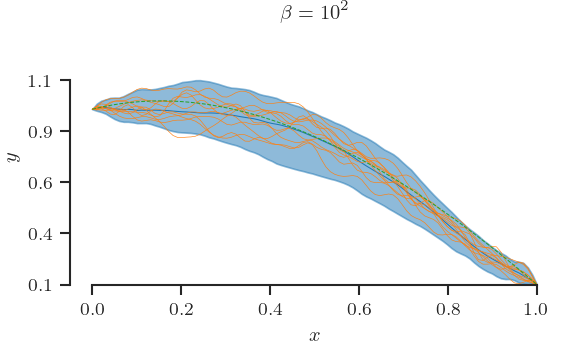
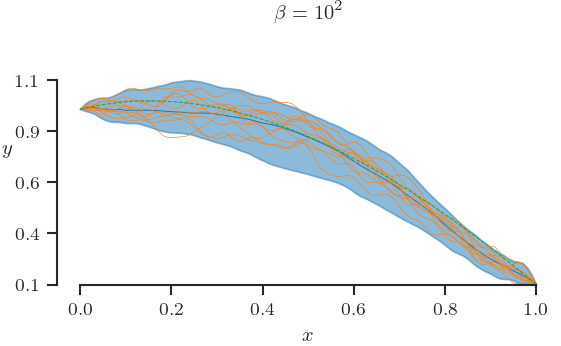
Example 1 typos.

diff --git a/examples/example01_make_plots.py b/examples/example01_make_plots.py
@@ -55,7 +55,7 @@ for b in betas:
     l = f"10^{tmp[1][2:]}"
     ax.set_title(f"$\\beta={l}$")
     if b == 100 or b == 10000:
-        ax.set_ylabel("$y$")
+        ax.set_ylabel("$y$", rotation="horizontal")
     if b == 100000:
         plt.legend(loc="best", frameon=False)
     sns.despine(trim=True)

diff --git a/examples/example01.md b/examples/example01.md
@@ -13,7 +13,7 @@ In this example the spatial domain is $[0, 1]$.
 The boundary value problem is:
 
 $$
-\kappa \frac{d^2\phi}{dx^2} = q(x),
+\D \frac{d^2\phi}{dx^2} = q(x),
 $$
 
 with the source term being:
@@ -25,7 +25,7 @@ $$
 and the conductivity being:
 
 $$
-\kappa = 0.25.
+\D = 0.25.
 $$
 
 The boundary conditions are:
@@ -43,7 +43,7 @@ $$
 The Hamiltonian is:
 
 $$
-H = \int dx \left\[\frac{1}{2}\kappa \left(\frac{d\phi}{dx}\right)^2 - \phi q\right].
+H = \int dx \left\[\frac{1}{2}\D \left(\frac{d\phi}{dx}\right)^2 - \phi q\right].
 $$
 
 ## Running the example
